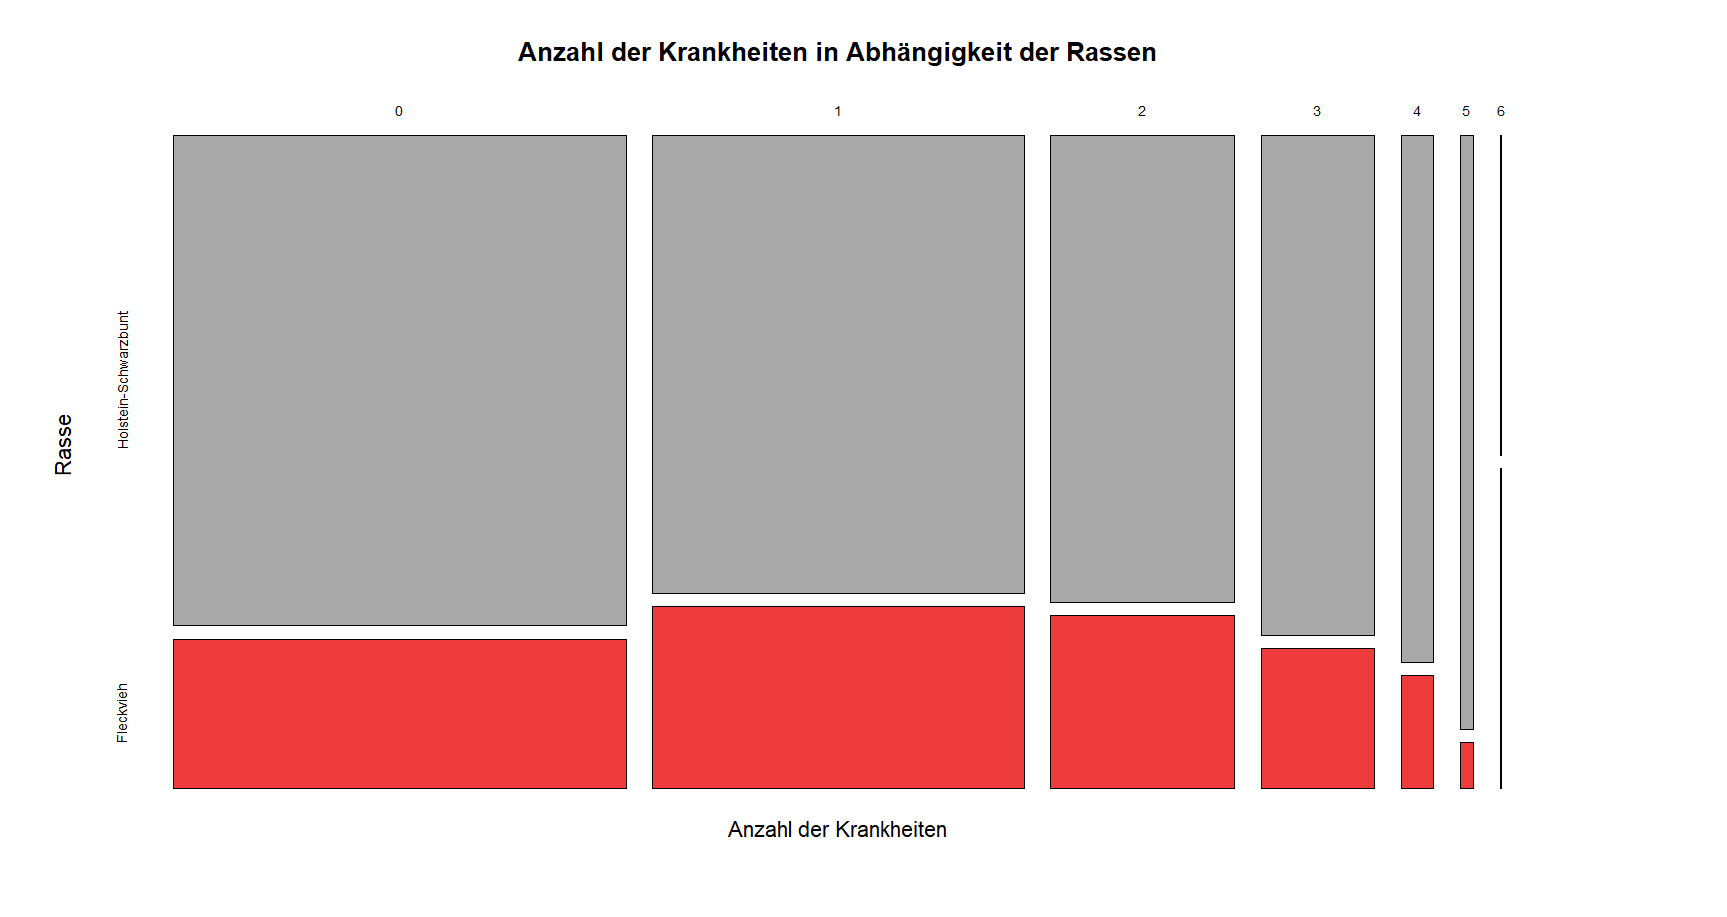
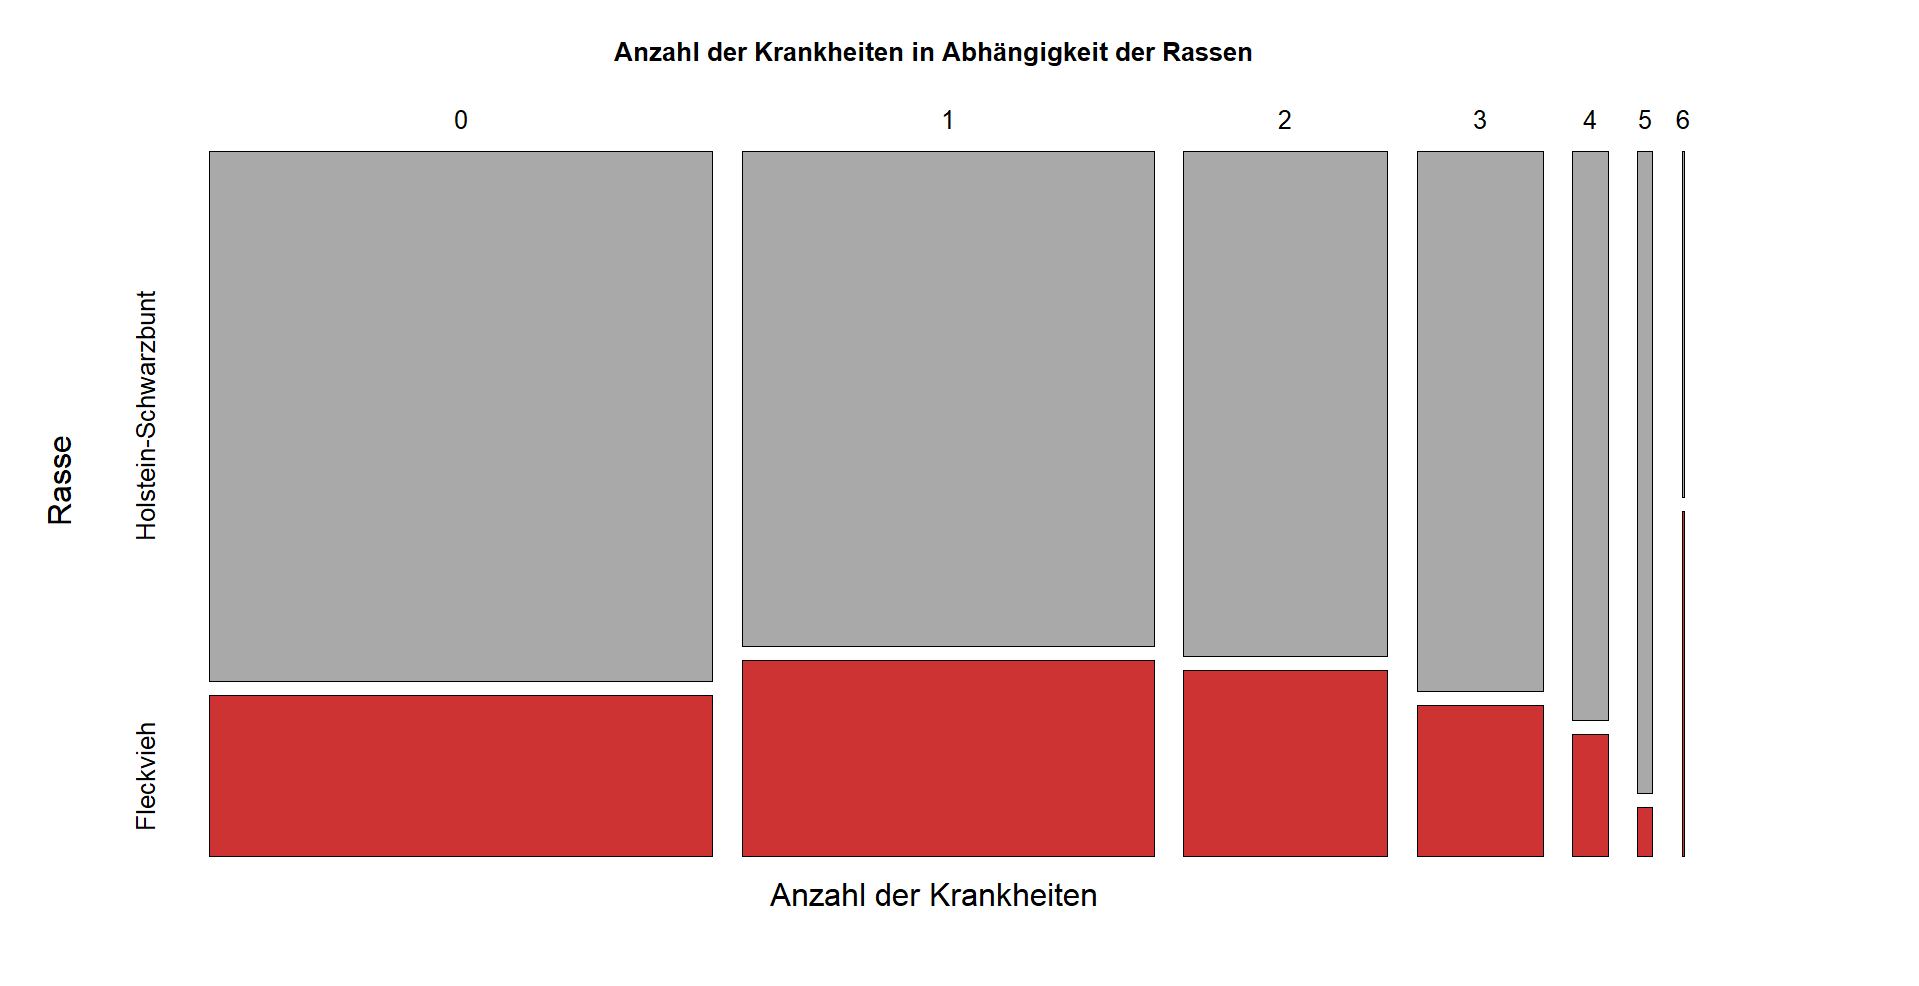
Achsen geändert
mit ylab und yaxis

Changed region(s): [[0.0307, 0.1221, 0.89, 0.916], [0.3069, 0.0305, 0.6752, 0.0916]]

diff --git a/Vortrag.tex b/Vortrag.tex
@@ -73,7 +73,7 @@
 		\frametitle{Mosaikplot zur Krankheitsanzahl nach Rasse}
 		\begin{figure}[h]
 			\centering
-			\includegraphics[width=1\textwidth]{Mosaikplots.png}
+			\includegraphics[scale=0.35]{Mosaikplots.png}
 			\vspace{-0.6cm}
 			\caption{Mosaikplot zur Krankheitsanzahl nach Rasse}
 		\end{figure}
